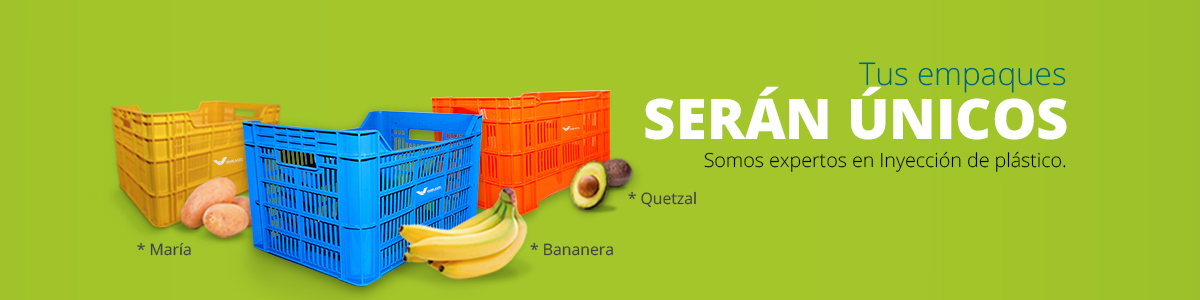
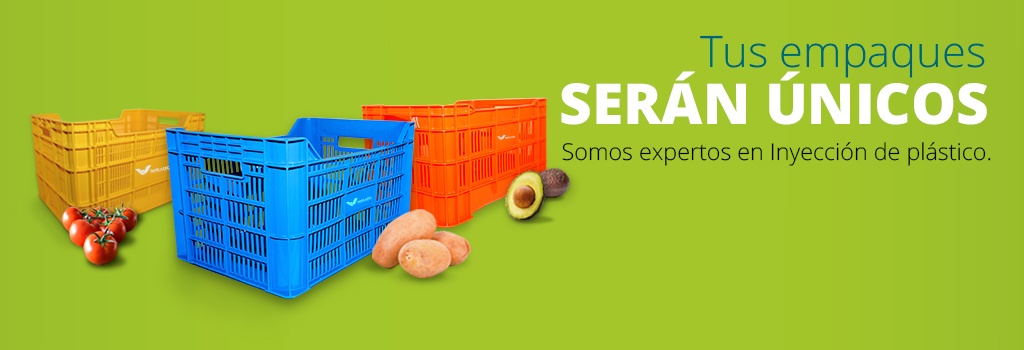
Home170905
HTML, CSS y BOOTSTRAP
Actualización de banners ancho 250px
*Sin Media Queries

Changed region(s): [[0.0312, 0.09, 0.9688, 0.99], [0.0938, 0.81, 0.1562, 0.87]]

diff --git a/contacto.html b/contacto.html
@@ -12,7 +12,7 @@
         
         <link rel="stylesheet" href="css/normalize.css">
         <link rel="stylesheet" href="css/bootstrap.css">
-        <link rel="stylesheet" href="css/main.css">
+        <link rel="stylesheet" href="css/contacto.css">
         <!--<script src="js/vendor/modernizr-2.8.3.min.js"></script>-->
     </head>
     <body>      
@@ -51,84 +51,26 @@
             </nav> 
             </header>
       <!--contenido de tu página-->
-      <main class="main">
-          <div id="carousel-example-generic" class="carousel slide" data-ride="carousel">
-            <!-- Indicators -->
-                <ol class="carousel-indicators">
-                 <li data-target="#carousel-example-generic" data-slide-to="0" class="active"></li>
-                 <li data-target="#carousel-example-generic" data-slide-to="1"></li>
-                 <li data-target="#carousel-example-generic" data-slide-to="2"></li>
-                </ol>
-
-            <!-- Wrapper for slides -->
-                <div class="carousel-inner" role="listbox">
-                <div class="item active">
-                    <img src="img/banneruno@1x.jpg" alt="...">
-                    <div class="carousel-caption">
-                    <a href="vermas">Ver más</a>
-                    </div>
-                </div>
-                <div class="item">
-                <img src="img/bannerdos@1x.jpg" alt="...">
-                <div class="carousel-caption">
-                 <a href="vermas">Ver más</a>
-                </div>
-                </div>
-                <div class="item">
-                <img src="img/bannertres@1x.jpg" alt="...">
-                <div class="carousel-caption">
-                 <a href="vermas">Ver más</a>
-                </div>
-                </div>
-                </div>
-
-  <!-- Controls -->
-  <a class="left carousel-control" href="#carousel-example-generic" role="button" data-slide="prev">
-    <span class="glyphicon glyphicon-chevron-left" aria-hidden="true"></span>
-    <span class="sr-only">Previous</span>
-  </a>
-  <a class="right carousel-control" href="#carousel-example-generic" role="button" data-slide="next">
-    <span class="glyphicon glyphicon-chevron-right" aria-hidden="true"></span>
-    <span class="sr-only">Next</span>
-  </a>
-</div>
-     
-    
-
+  <main class="main">
+        
     <div class="container main2">
-       <!-- <section class="row">
-          <section class="col-xs-12 col-sm-12 col-md-12 col-lg-12">
-              <h3 class="intro">En VANPLASTIC ayudamos a las industrias alimenticias, agrícolas y agropecuarias a la rentabilidad y sustentabilidad de sus empresas. ¡Conoce nuestros productos y servicios!</h3>
-          </section>
-          <section class="clearfix"></section>
-          </section>-->
-       
        <section class="row">
-          <section class="col-xs-12 col-sm-4 col-md-4 col-lg-4 ">
-               <a href="industrial.html"><img src="img/lineaindustrial@1x.jpg" alt="línea industrial" class="unoindustrial"></a>
-                
+            <section class="col-xs-12 col-sm-12 col-md-6 col-lg-6">
+            <img class=img-fluid src="img/catalogo@1x.png" alt="Responsive image">
+                <section class="clearfix"></section>
             </section>
-            <section class="col-xs-12 col-sm-4 col-md-4 col-lg-4 ">
-              <a href="hogar.html"><img src="img/lineahogar@1x.jpg" alt="Amplia Gama de Colores" class="colores"></a>
-               
-            </section>
-            <section class="col-xs-12 col-sm-4 col-md-4 col-lg-4 ">
-             <a href="maquila.html"><img src="img/serviciomaquila@1x.jpg" alt="línea maquila" class="unomaquila">
-            </section>
-            <section class="clearfix"></section>
-         
+           
+            <section class="col-xs-12 col-sm-12 col-md-5 col-lg-5 ">
+            <article class=txtpedidos><h1>CONTACTO</h1><h3>¡Conoce nuestro catálogo de productos que tenemos para ti!</h3></article><br>
+            <form><button type="submit" class="btn btn-primary">Descargar Catálogo</button>
+            </form>
+                  <section class="clearfix"></section> 
         </section>
-        <section class="row">
-            <section class="col-xs-12 col-sm-12 col-md-12 col-lg-12 pedidosbanner">
-                <a href="pedidos.html">
-                    <img src="img/teaserpedidos@1x.jpg" >
-                </a>
-            </section>
-            <section class="clearfix"></section>
-        </section> 
-       
-    </div> 
+
+      </div>
+    
   </main>
+        
    <footer class="footer row">
     <section class="container">
             <article class="col-xs-12 col-sm-12 col-md-12 col-lg-12">
@@ -139,7 +81,7 @@
                     
                     </figure>
                     </a>
-                    <nav class="contacto">(55) 1660 394 contacto@vanplastic.mx<br> Copyright 2017 Vanplastic Todos los derechos reservados. Política de Pirvacidad <br> Camino Nacional 74, ACC Eje Norte Sur, Nuevo Parque Industrial,<br> San Juan del Río, Querétaro, México, C.P 76806 </nav>
+                    <nav class="contacto">(55) 1660 394 contacto@vanplastic.mx<br> Copyright 2017 Vanplastic Todos los derechos reservados. Política de Privacidad <br> Camino Nacional 74, ACC Eje Norte Sur, Nuevo Parque Industrial,<br> San Juan del Río, Querétaro, México, C.P 76806 </nav>
               
             </article>
             </section>

diff --git a/css/contacto.css b/css/contacto.css
@@ -18,6 +18,7 @@ body{
   font-family: "OpenSans"
 }
 
+/*Menu*/
 header{
 
 }
@@ -54,7 +55,7 @@ header{
                 margin-top: -1em;
                    
             }
-            /*Para movil el logotipo no respeta el responsive*/
+           
         .redes{
             width:66%;
             height:75px;
@@ -63,37 +64,7 @@ header{
             margin:0;
             float:left;
         }
-        .carousel-inner > .item > img{
-            margin: 0 auto;
-            width: 100%
-        }
 
-        .carousel-indicators {
-    bottom: -9px;
-}
-        .carousel-caption {
-    right: 0%;
-    left: 49%;
-    padding-bottom: 2em;
-    /* color: white; */
-    /* background-color: gray; */
-}
-.carousel-caption a:hover{
-padding: 1.2em 2.2em;
-box-shadow: 4px 4px 5px #7d9b24;
-font-weight: bold;
-}
-.carousel-caption a{
-    background-color: rgba(235, 235, 235, 0.5);
-    color: #006680;
-    text-shadow: none;
-    padding: 1em 2em;
-    font-size: 2rem;
-
-}
-.carousel-caption a:hover{
-    text-decoration: none;
-}
             .face, .faqs{
                 padding: 0px!important;
             }
@@ -123,119 +94,55 @@ font-weight: bold;
     color: #006680;
     padding-right: 3em;
 }
-   
+ /*Contenedor Principal*/
     .main2{
         margin-top: 1em;
+        padding:20px; 
     }
 
-    .uno{
-        width:100%;
-        height:500px;    
-    }
+
     .main{
             margin-top: 6em;
     }
 
-    .industrial{
-
+    .llameya{
+        margin:10px;
+        padding:20px;
+        color:#39657a;
+        text-align:center;
     }
-        .iconindustrial{
-           
-            background-color:#d5d2df;
-            padding:0;
-            margin:0 0 10px;
-            float:left;
-        }
 
-        .unoindustrial{
-             background-color: #d5d2df;
-    padding: 0;
-    margin: 0 0 10px;
-    width: 100%;
-        }
 
-        .teaserindustrial{
-          
-            background-color:#ff6666;
-            padding:0;
-            margin:0 0 10px;
-            float:left;
-        }
-        .inconfundibles{
-         
-            background-color:#ff6666;
-            padding:0;
-            margin:0 0 10px;
-            float:left;
-        }
+/*Imagenes Responsive*/
+.img-fluid{
+    max-width:100%;
+    height:auto;
+    margin:50px 0px 0px 0px;
+    padding:0; 
 
-    .hogar{
+}
+/*Frase Call To Action*/
+.txtpedidos{
+    margin:0px;
+    padding:0px;
+}
 
-    }
-    .pedidosbanner img{
-        width: 100%;
-        margin-bottom: 1em;
-    }
-        .teaserhogar{
-           
-            background-color:#ff8888;
-            padding:0;
-            margin:0 0 10px;
-            float:left;
-        }
+.txtfrasecontacto{
+    margin:10px;
+    padding:10px;
+    text-align:center;
+    color:#39657a; 
+}
 
-        .colores{
-               background-color: #ff6666;
-    padding: 0;
-    margin: 0 0 10px;
-    width: 100%;
-        }
-        .iconhogar{
-        
-            background-color:#d5d2df;
-            padding:0;
-            margin:0 0 10px;
-            float:left;
-        }
-
-        .doshogar{
-            width:100%;
-            height:200px; 
-            padding:0;
-            margin:0 0 10px; 
-        }
-
-    .maquila{
-        
-    }
-        .iconmaquila{
-          
-            background-color:#d5d2df;
-            padding:0;
-            margin:0 0 10px;
-            float:left;
-        }
-
-        .unomaquila{
-           width: 100%;
-        }
-        .teasermaquila{
-         
-            background-color:#ff6666;
-            padding:0;
-            margin:0 0 10px;
-            float:left;
-        }
-         
-/*Footer*/
+/*footer*/
 footer{
-  width: auto; 
+  width: auto;
     height: 90px;
     background-color: #00657f;
     padding: 0;
     margin: 0;
-  
 }
+
     .logofooter{
         width:auto;
         height:44px;
@@ -262,24 +169,20 @@ footer{
 
 
 /*Contenido*/
-.clientesuno{
-    font:OpenSans-Bold;
-    font-size:30pt;
-    text-align:left;
-    color:#00657d;
-}
+
 .redesmovil{
     display:none;
 }
-/*bbootstrap*/
+/*bootstrap*/
 .navbar-default .navbar-collapse, .navbar-default .navbar-form {
     border-color: transparent;
 }
 
 
-/*Menu*/
 
-/*NOTAS EXTRASMedia Queries Responsive
+
+/*NOTAS EXTRAS
+Media Queries Responsive
 320px (Custom Iphone Retina)
 480px (Small Devices, Phones)
 768px (Small Devices, Tablets)
@@ -287,7 +190,7 @@ footer{
 1200px (Large Devices, Wide Screens) */
 
 
-/*media queries*/
+/*Media Queries*/
 
 @media (max-width: 995px) and (min-width: 763px) {
 .navbar-nav > li {
